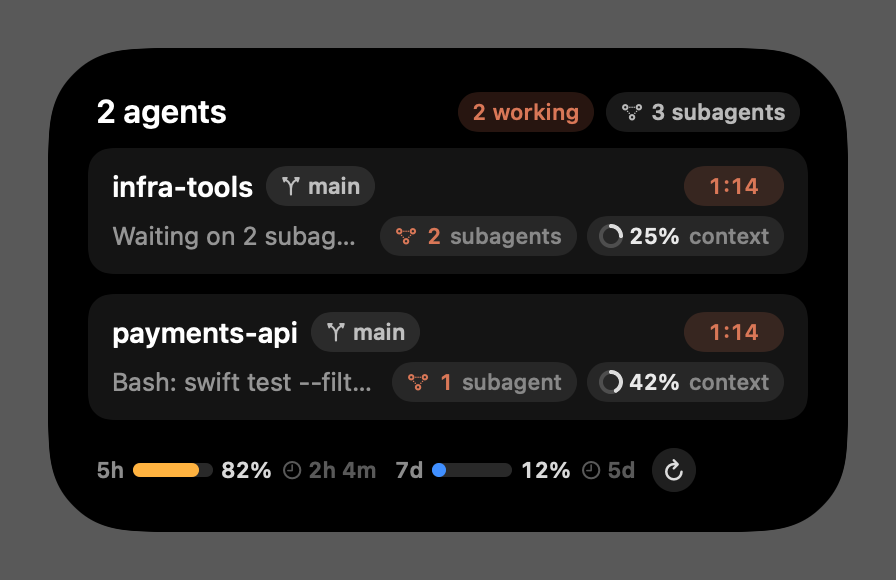
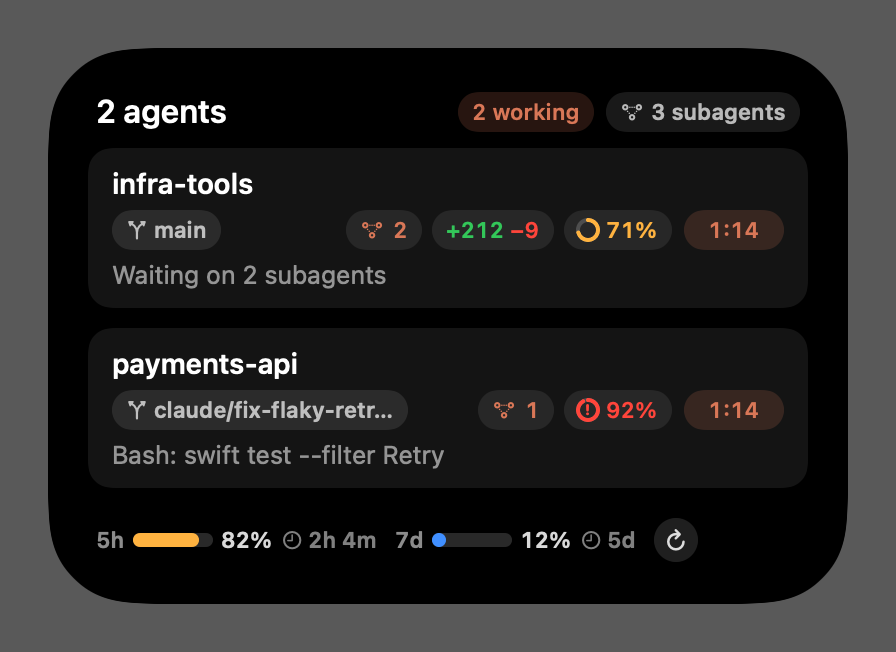
Island accessibility: contrast, VoiceOver labels, 24pt targets, non-colour danger cues

diff --git a/Shared/IslandViews.swift b/Shared/IslandViews.swift
@@ -52,7 +52,8 @@ enum Island {
     static let red = Color(red: 1.0, green: 0.27, blue: 0.23)
     static let blue = Color(red: 0.25, green: 0.56, blue: 1.0)
     static let secondary = Color.white.opacity(0.55)
-    static let tertiary = Color.white.opacity(0.35)
+    /// 5.3:1 on the black island and on `surface` (WCAG 1.4.3 needs 4.5:1 for 11pt text).
+    static let tertiary = Color.white.opacity(0.5)
     static let surface = Color.white.opacity(0.08)
     /// Cards inside the island. Near-concentric with the island's ~22pt corner across its ~16pt margin (strictly
     /// concentric would be ~6pt, which reads boxy at card size); nested boxes step down again (`innerRadius`).
@@ -61,6 +62,25 @@ enum Island {
 
     static func quota(_ f: Double) -> Color { f >= 0.9 ? red : f >= 0.75 ? amber : blue }
     static func context(_ f: Double) -> Color { f > 0.85 ? red : f > 0.65 ? amber : coral }
+    /// The danger levels, where the hue shift to red also gets a "!" so colour is not the only cue (WCAG 1.4.1).
+    static func quotaDanger(_ f: Double) -> Bool { f >= 0.9 }
+    static func contextDanger(_ f: Double) -> Bool { f > 0.85 }
+
+    /// A duration as VoiceOver should say it: "1 minute 14 seconds", "2 hours 4 minutes".
+    static func spoken(_ seconds: TimeInterval, maxUnits: Int = 2) -> String {
+        let f = DateComponentsFormatter()
+        f.unitsStyle = .full
+        f.allowedUnits = [.day, .hour, .minute, .second]
+        f.maximumUnitCount = maxUnits
+        f.zeroFormattingBehavior = .dropAll
+        return f.string(from: max(1, seconds)) ?? ""
+    }
+    /// "82% used, resets in 2 hours 4 minutes".
+    static func quotaValue(_ f: Double, _ reset: Date?, now: Date = .now) -> String {
+        let used = "\(Int((f * 100).rounded()))% used"
+        guard let reset, reset > now else { return used }
+        return used + ", resets in " + spoken(reset.timeIntervalSince(now))
+    }
 }
 
 extension NotchActivityState.Phase {
@@ -182,6 +202,9 @@ struct Artwork: View {
                         .overlay(Capsule().strokeBorder(.black, lineWidth: max(1, d * 0.1)))
                 }
             }
+            .accessibilityElement(children: .ignore)
+            .accessibilityLabel("NotchBot")
+            .accessibilityValue(badge > 0 ? "\(badge) ready to review" : "")
     }
 }
 
@@ -199,6 +222,8 @@ struct AgentWave: View {
     let tint: Color
     var pulse = 0
     var height: CGFloat = 18
+    /// What VoiceOver says; derived from the counts when nil.
+    var label: String? = nil
     static let maxBars = 7
     static let minBars = 5
 
@@ -210,6 +235,10 @@ struct AgentWave: View {
     }
 
     var body: some View {
+        bars.accessibilityElement(children: .ignore).accessibilityLabel(spokenLabel)
+    }
+
+    @ViewBuilder private var bars: some View {
         let main = min(agents, Self.maxBars)
         let subs = min(subagents, Self.maxBars - main)
         if main + subs == 0 {
@@ -237,6 +266,14 @@ struct AgentWave: View {
             .animation(.easeInOut(duration: 0.9), value: pulse)
         }
     }
+
+    private var spokenLabel: String {
+        if let label { return label }
+        if agents + subagents == 0 { return "No agents working" }
+        var s = "\(agents) agent\(agents == 1 ? "" : "s") working"
+        if subagents > 0 { s += ", \(subagents) subagent\(subagents == 1 ? "" : "s")" }
+        return s
+    }
 }
 
 extension AgentWave {
@@ -244,14 +281,17 @@ extension AgentWave {
     /// per waiting session keeps the island visibly asking.
     init(state: NotchActivityState, height: CGFloat = 18) {
         let agents = state.working > 0 ? state.working : (state.phase == .needsYou ? state.needsYou : 0)
+        let waiting = state.working == 0 && state.phase == .needsYou
         self.init(
-            agents: agents, subagents: state.subagentsRunning, tint: state.phase.waveTint, pulse: state.pulse, height: height)
+            agents: agents, subagents: state.subagentsRunning, tint: state.phase.waveTint, pulse: state.pulse, height: height,
+            label: waiting ? "\(agents) waiting for you" : nil)
     }
 }
 
 // MARK: - Buttons
 
-/// A pill button label. `filled` uses the tint as the fill with white text; otherwise a quiet translucent fill.
+/// A pill button label. `filled` uses the tint as the fill with black text (white fails contrast on coral and green);
+/// otherwise a quiet translucent fill. The tap target is at least 24pt tall whatever the scale (WCAG 2.5.8).
 struct Pill: View {
     let title: String
     var tint: Color = .white
@@ -262,11 +302,12 @@ struct Pill: View {
     var body: some View {
         let h = height * k
         Text(title).font(.system(size: h * 0.42, weight: .semibold)).lineLimit(1)
-            .foregroundStyle(filled ? Color.white : tint == .white ? Color.white : tint)
+            .foregroundStyle(filled ? Color.black : tint == .white ? Color.white : tint)
             .padding(.horizontal, h * 0.45)
             .frame(maxWidth: stretch ? .infinity : nil, minHeight: h, maxHeight: h)
             .background(Capsule().fill(filled ? tint : Color.white.opacity(0.14)))
-            .contentShape(Capsule())
+            .frame(minHeight: 24)
+            .contentShape(Rectangle())
     }
 }
 
@@ -306,14 +347,21 @@ struct Stat<Glyph: View, Value: View>: View {
     var tint: Color? = nil
     /// False in a tight row: the pill keeps its glyph and value and drops the dim label.
     var showLabel = true
+    /// What VoiceOver says; the visible value and label when nil.
+    var spoken: String? = nil
     @ViewBuilder var glyph: Glyph
     @ViewBuilder var value: Value
     @Environment(\.islandScale) private var k
     var body: some View {
+        content.accessibilityElement(children: spoken == nil ? .combine : .ignore)
+            .accessibilityLabel(spoken ?? "")
+    }
+
+    private var content: some View {
         HStack(spacing: 4 * k) {
             glyph.foregroundStyle(tint ?? Color.white.opacity(0.6))
             value.sfont(size: 11, weight: .semibold).foregroundStyle(tint ?? Color.white.opacity(0.9))
-            if showLabel { Text(label).sfont(size: 11, weight: .medium).foregroundStyle(Color.white.opacity(0.45)) }
+            if showLabel { Text(label).sfont(size: 11, weight: .medium).foregroundStyle(Color.white.opacity(0.55)) }
         }
         .monospacedDigit().lineLimit(1).fixedSize()
         .padding(.horizontal, 7 * k).padding(.vertical, 3 * k)
@@ -323,14 +371,19 @@ struct Stat<Glyph: View, Value: View>: View {
 }
 
 extension Stat where Value == Text {
-    init(value: String, label: String, tint: Color? = nil, showLabel: Bool = true, @ViewBuilder glyph: () -> Glyph) {
-        self.init(label: label, tint: tint, showLabel: showLabel, glyph: glyph) { Text(value) }
+    init(
+        value: String, label: String, tint: Color? = nil, showLabel: Bool = true, spoken: String? = nil,
+        @ViewBuilder glyph: () -> Glyph
+    ) {
+        self.init(label: label, tint: tint, showLabel: showLabel, spoken: spoken, glyph: glyph) { Text(value) }
     }
 }
 
 extension Stat where Glyph == EmptyView {
-    init(label: String, tint: Color? = nil, showLabel: Bool = true, @ViewBuilder value: () -> Value) {
-        self.init(label: label, tint: tint, showLabel: showLabel, glyph: { EmptyView() }, value: value)
+    init(
+        label: String, tint: Color? = nil, showLabel: Bool = true, spoken: String? = nil, @ViewBuilder value: () -> Value
+    ) {
+        self.init(label: label, tint: tint, showLabel: showLabel, spoken: spoken, glyph: { EmptyView() }, value: value)
     }
 }
 
@@ -346,7 +399,16 @@ struct Ring: View {
             Circle().trim(from: 0, to: max(0.04, min(1, fraction))).stroke(tint, style: StrokeStyle(lineWidth: 2, lineCap: .round))
                 .rotationEffect(.degrees(-90))
         }
+        .overlay {
+            // Not colour alone: a "!" in the ring at the danger level.
+            if Island.contextDanger(fraction) {
+                Image(systemName: "exclamationmark").font(.system(size: 6 * k, weight: .black)).foregroundStyle(tint)
+            }
+        }
         .frame(width: size * k, height: size * k)
+        .accessibilityElement(children: .ignore)
+        .accessibilityLabel("Context")
+        .accessibilityValue("\(Int((fraction * 100).rounded()))% used")
     }
 }
 
@@ -417,22 +479,27 @@ struct PromptPanel: View {
                 Button(intent: OpenSessionIntent(sessionId: p.sessionId)) {
                     Pill(title: "Open", tint: Island.coral, filled: true, height: 26, stretch: false)
                 }
+                .accessibilityLabel("Open \(p.session)")
             } else if p.isQuestion {
                 Spacer(minLength: 8)
                 Button(intent: DenyIntent(sessionId: p.sessionId, requestId: p.requestId)) {
                     Pill(title: "Not now", height: 26, stretch: false)
                 }
+                .accessibilityLabel("Not now: \(p.session)")
                 Button(intent: OpenSessionIntent(sessionId: p.sessionId, requestId: p.requestId)) {
                     Pill(title: "Answer in Claude", tint: Island.coral, filled: true, height: 26, stretch: false)
                 }
+                .accessibilityLabel("Answer in Claude: \(p.session)")
             } else {
                 Spacer(minLength: 8)
                 Button(intent: DenyIntent(sessionId: p.sessionId, requestId: p.requestId)) {
                     Pill(title: "Deny", tint: Island.red, height: 26, stretch: false)
                 }
+                .accessibilityLabel("Deny \(Island.target(p.tool, p.text))")
                 Button(intent: AllowIntent(sessionId: p.sessionId, requestId: p.requestId)) {
                     Pill(title: "Allow", tint: Island.green, filled: true, height: 26, stretch: false)
                 }
+                .accessibilityLabel("Allow \(Island.target(p.tool, p.text))")
             }
         }
         .buttonStyle(.plain)
@@ -465,6 +532,11 @@ struct SessionRow: View {
                 .contentShape(Rectangle())
             }
             .buttonStyle(.plain)
+            // One element for the whole header, read in order: name, status, branch, stats, detail. It opens the same
+            // session as the detail line below, which is hidden from VoiceOver so nothing is read twice.
+            .accessibilityElement(children: .ignore)
+            .accessibilityLabel(row.spokenSummary)
+            .accessibilityHint("Opens the session")
             HStack(spacing: 5) {
                 Button(intent: OpenSessionIntent(sessionId: row.id)) {
                     Text(row.detail)
@@ -474,6 +546,7 @@ struct SessionRow: View {
                         .contentShape(Rectangle())
                 }
                 .buttonStyle(.plain)
+                .accessibilityHidden(true)
                 trailing
             }
         }
@@ -510,9 +583,11 @@ struct SessionRow: View {
                     Button(intent: DenyIntent(sessionId: row.id, requestId: r)) {
                         Pill(title: "Deny", tint: Island.red, height: 24, stretch: false)
                     }
+                    .accessibilityLabel("Deny \(Island.target(row.tool ?? "request", row.detail))")
                     Button(intent: AllowIntent(sessionId: row.id, requestId: r)) {
                         Pill(title: "Allow", tint: Island.green, filled: true, height: 24, stretch: false)
                     }
+                    .accessibilityLabel("Allow \(Island.target(row.tool ?? "request", row.detail))")
                 } else {
                     openButton
                 }
@@ -520,6 +595,7 @@ struct SessionRow: View {
                 Button(intent: OpenSessionIntent(sessionId: row.id, requestId: row.requestId ?? "")) {
                     Pill(title: "Answer", tint: Island.coral, filled: true, height: 24, stretch: false)
                 }
+                .accessibilityLabel("Answer \(row.name)")
             case .input, .failed: openButton
             case .review, .working, .idle:
                 EmptyView()
@@ -553,7 +629,7 @@ struct SessionRow: View {
                     }
                 }
                 if lines, row.linesAdded + row.linesRemoved > 0 {
-                    Stat(label: "lines", showLabel: labels) {
+                    Stat(label: "lines", showLabel: labels, spoken: "\(row.linesAdded) lines added, \(row.linesRemoved) removed") {
                         Text("+\(row.linesAdded)").foregroundStyle(Island.green)
                             + Text(" −\(row.linesRemoved)").foregroundStyle(Island.red)
                     }
@@ -575,6 +651,43 @@ struct SessionRow: View {
         Button(intent: OpenSessionIntent(sessionId: row.id)) {
             Pill(title: "Open", tint: Island.coral, filled: true, height: 24, stretch: false)
         }
+        .accessibilityLabel("Open \(row.name)")
+    }
+}
+
+extension Island {
+    /// "Bash: npm install…" for an Allow / Deny label: the tool and the start of what it wants to do.
+    static func target(_ tool: String?, _ text: String) -> String {
+        let t = text.trimmingCharacters(in: .whitespacesAndNewlines)
+        let clipped = t.count > 60 ? String(t.prefix(60)) + "…" : t
+        guard let tool, !tool.isEmpty else { return clipped }
+        return clipped.isEmpty ? tool : "\(tool): \(clipped)"
+    }
+}
+
+extension NotchActivityState.Row {
+    /// What VoiceOver reads for the header: name, status, branch, stats, then the detail line.
+    var spokenSummary: String {
+        var parts: [String] = []
+        if !name.trimmingCharacters(in: .whitespacesAndNewlines).isEmpty { parts.append(name) }
+        if kind == .working, let since {
+            parts.append("Working for " + Island.spoken(Date.now.timeIntervalSince(since)))
+        } else {
+            parts.append(status)
+        }
+        if let branch { parts.append("branch \(branch)") }
+        if kind == .working || kind == .idle {
+            if subagentTotal > 0 {
+                parts.append(
+                    subagents > 0
+                        ? "\(subagents) subagent\(subagents == 1 ? "" : "s") running"
+                        : "\(subagentTotal) subagent\(subagentTotal == 1 ? "" : "s") done")
+            }
+            if linesAdded + linesRemoved > 0 { parts.append("\(linesAdded) lines added, \(linesRemoved) removed") }
+            if let context { parts.append("Context \(Int(context * 100))% used") }
+        }
+        if !detail.isEmpty { parts.append(detail) }
+        return parts.joined(separator: ", ")
     }
 }
 
@@ -614,10 +727,12 @@ struct Footer: View {
         Button(intent: RefreshQuotaIntent()) {
             Image(systemName: "arrow.clockwise").sfont(size: 10, weight: .bold).foregroundStyle(.white.opacity(0.85))
                 .frame(width: 22 * k, height: 22 * k).background(Circle().fill(Color.white.opacity(0.12)))
-                .contentShape(Circle())
+                .frame(minWidth: 24, minHeight: 24)
+                .contentShape(Rectangle())
         }
         .buttonStyle(.plain)
         .fixedSize()
+        .accessibilityLabel("Refresh plan limits")
     }
 
     @ViewBuilder private var pager: some View {
@@ -644,6 +759,9 @@ struct Footer: View {
                     Capsule().fill(Island.quota(f)).frame(width: max(7 * k, bar * k * min(1, f)), height: 7 * k)
                 }
             Text("\(Int((f * 100).rounded()))%").foregroundStyle(.white.opacity(0.85))
+            if Island.quotaDanger(f) {
+                Image(systemName: "exclamationmark").sfont(size: size - 1, weight: .black).foregroundStyle(Island.red)
+            }
             if let reset, let left = Island.shortUntil(reset, hm: hm) {
                 HStack(spacing: 2) {
                     if icon { Image(systemName: "clock").sfont(size: 9, weight: .semibold) }
@@ -655,6 +773,9 @@ struct Footer: View {
         .monospacedDigit()
         .sfont(size: size, weight: .semibold)
         .fixedSize()
+        .accessibilityElement(children: .ignore)
+        .accessibilityLabel(label == "5h" ? "5-hour limit" : "Weekly limit")
+        .accessibilityValue(Island.quotaValue(f, reset))
     }
 }
 
@@ -691,6 +812,7 @@ struct Pager: View {
     var body: some View {
         HStack(spacing: 5) {
             Button(intent: PageIntent(forward: false)) { arrow("chevron.left") }
+                .accessibilityLabel("Previous page")
             HStack(spacing: 4) {
                 ForEach(0..<min(state.pages, 8), id: \.self) { i in
                     Capsule().fill(Color.white.opacity(i == state.page ? 0.9 : 0.25))
@@ -698,7 +820,10 @@ struct Pager: View {
                 }
             }
             .animation(.easeInOut(duration: 0.25), value: state.page)
+            .accessibilityElement(children: .ignore)
+            .accessibilityLabel("Page \(state.page + 1) of \(state.pages)")
             Button(intent: PageIntent(forward: true)) { arrow("chevron.right") }
+                .accessibilityLabel("Next page")
         }
         .buttonStyle(.plain)
         .fixedSize()
@@ -706,7 +831,8 @@ struct Pager: View {
 
     private func arrow(_ symbol: String) -> some View {
         Image(systemName: symbol).sfont(size: 10, weight: .bold).foregroundStyle(.white.opacity(0.85))
-            .frame(width: 22 * k, height: 22 * k).background(Circle().fill(Color.white.opacity(0.12))).contentShape(Circle())
+            .frame(width: 22 * k, height: 22 * k).background(Circle().fill(Color.white.opacity(0.12)))
+            .frame(minWidth: 24, minHeight: 24).contentShape(Rectangle())
     }
 }
 
@@ -768,6 +894,7 @@ struct SettingsGear: View {
                 .contentShape(Circle())
         }
         .buttonStyle(.plain)
+        .accessibilityLabel("NotchBot settings")
     }
 }
 
@@ -842,6 +969,9 @@ struct IslandIdle: View {
                 Text(label).sfont(size: 12, weight: .semibold).foregroundStyle(Island.secondary)
                     .lineLimit(1).minimumScaleFactor(0.6)
                 Spacer(minLength: 4)
+                if Island.quotaDanger(f) {
+                    Image(systemName: "exclamationmark").sfont(size: 13, weight: .black).foregroundStyle(Island.red)
+                }
                 Text("\(Int((f * 100).rounded()))%").sfont(size: 15, weight: .semibold).foregroundStyle(.white)
                     .monospacedDigit().lineLimit(1).fixedSize()
             }
@@ -861,6 +991,9 @@ struct IslandIdle: View {
             .sfont(size: 11).foregroundStyle(Island.tertiary).lineLimit(1)
         }
         .frame(maxWidth: .infinity, alignment: .leading)
+        .accessibilityElement(children: .ignore)
+        .accessibilityLabel(label)
+        .accessibilityValue(Island.quotaValue(f, reset))
     }
 }
 
